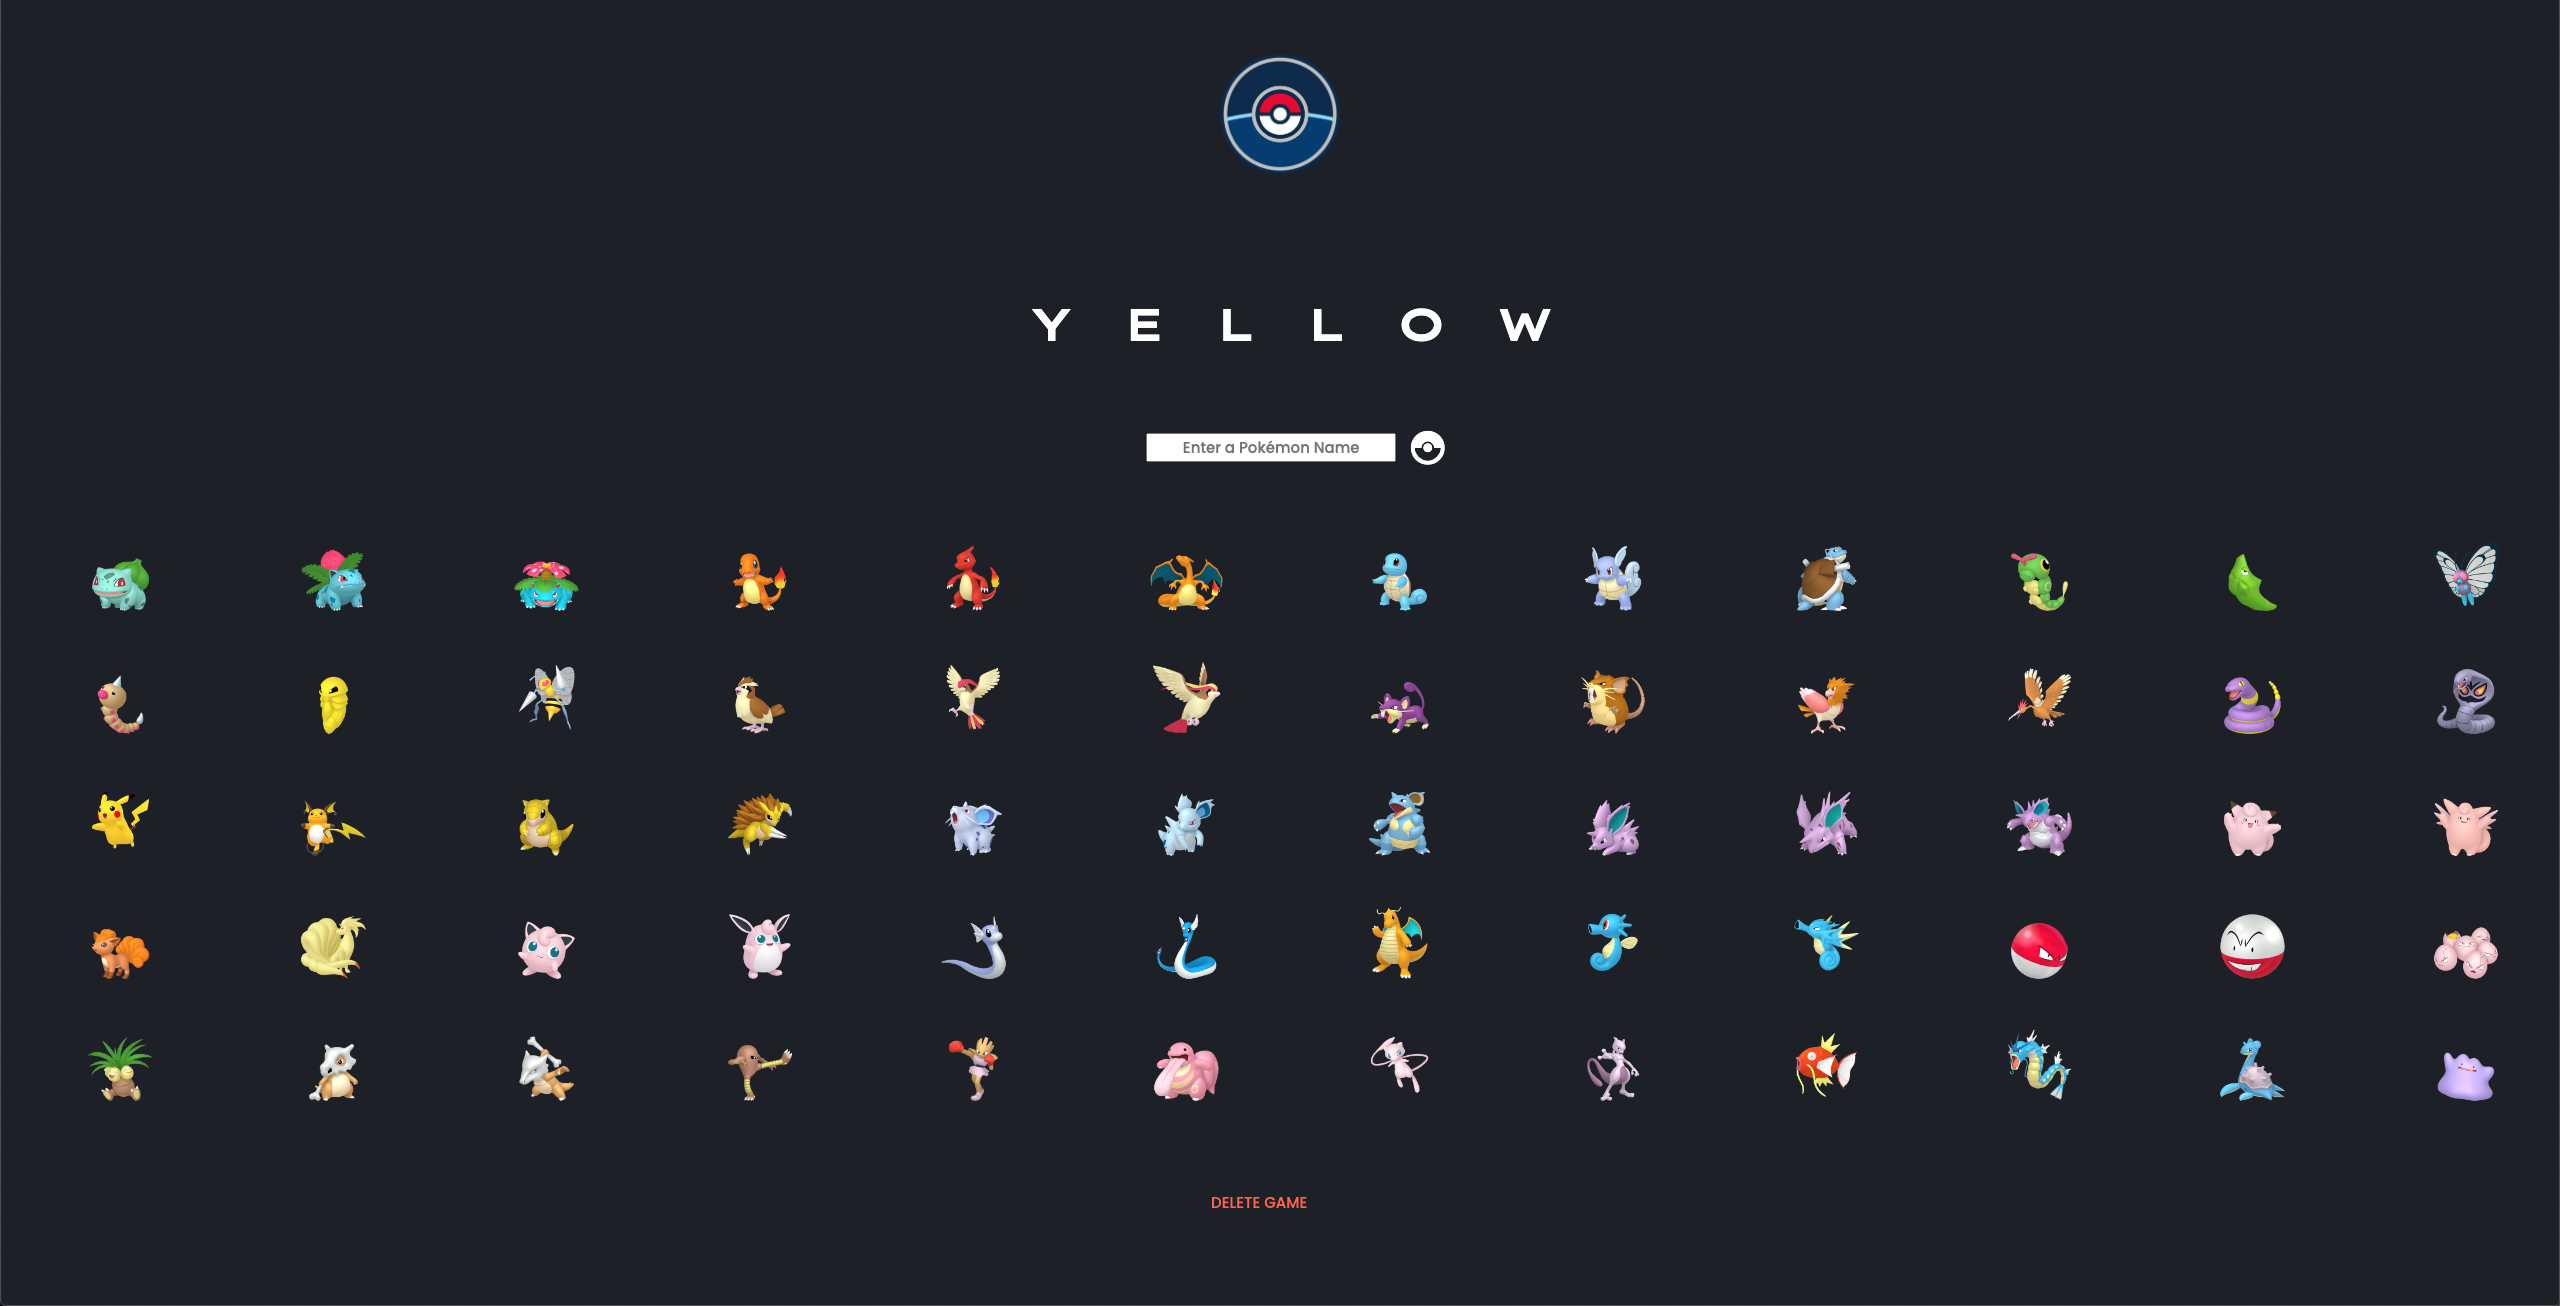
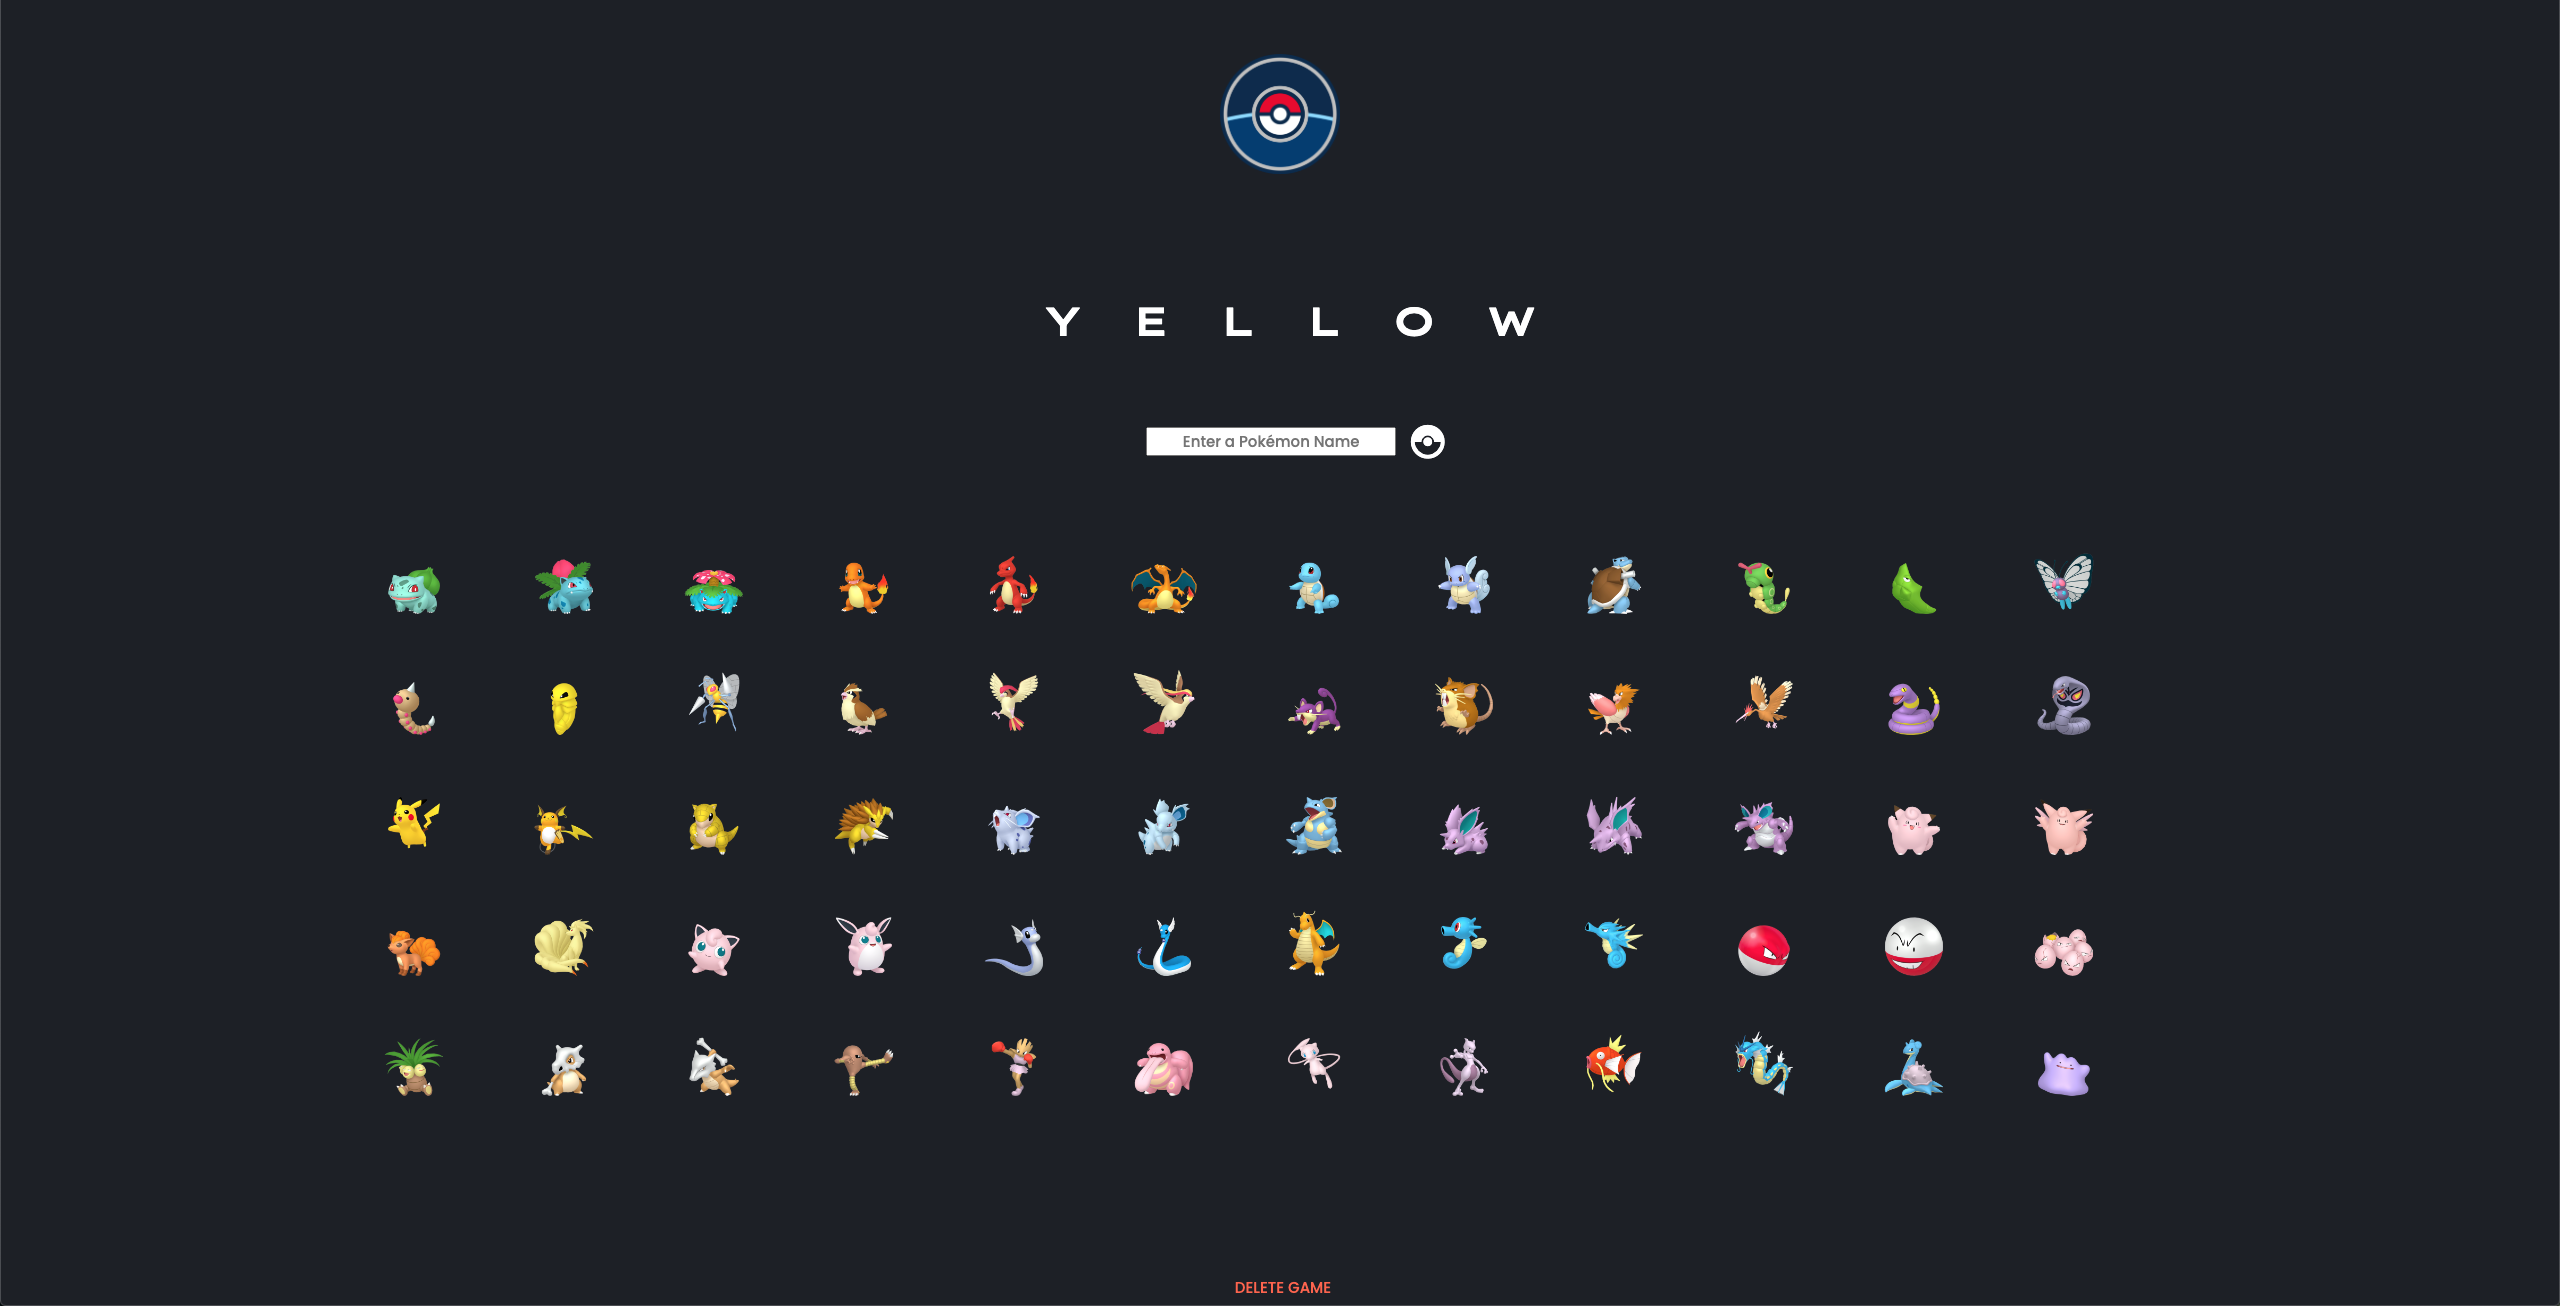
fix readme img

diff --git a/public/stylesheets/style.css b/public/stylesheets/style.css
@@ -137,16 +137,22 @@ select {
   margin-top: 6vmin;
 }
 
+.caughtcontainer {
+  display: flex;
+  justify-content: center;
+  align-items: center;
+  margin-top: 7vmin;
+}
+
 .caught {
   display: grid;
-  grid-template-columns: repeat(12, 8.33vw);
-  row-gap: 40px;
-  padding: 75px;
+  grid-template-columns: repeat(12, 15rem);
+  row-gap: 45px;
 }
 
 .caught img {
   transition: all .2s ease-in-out;
-  width: 35%;
+  width: 45%;
 }
 
 .caught img:hover {
